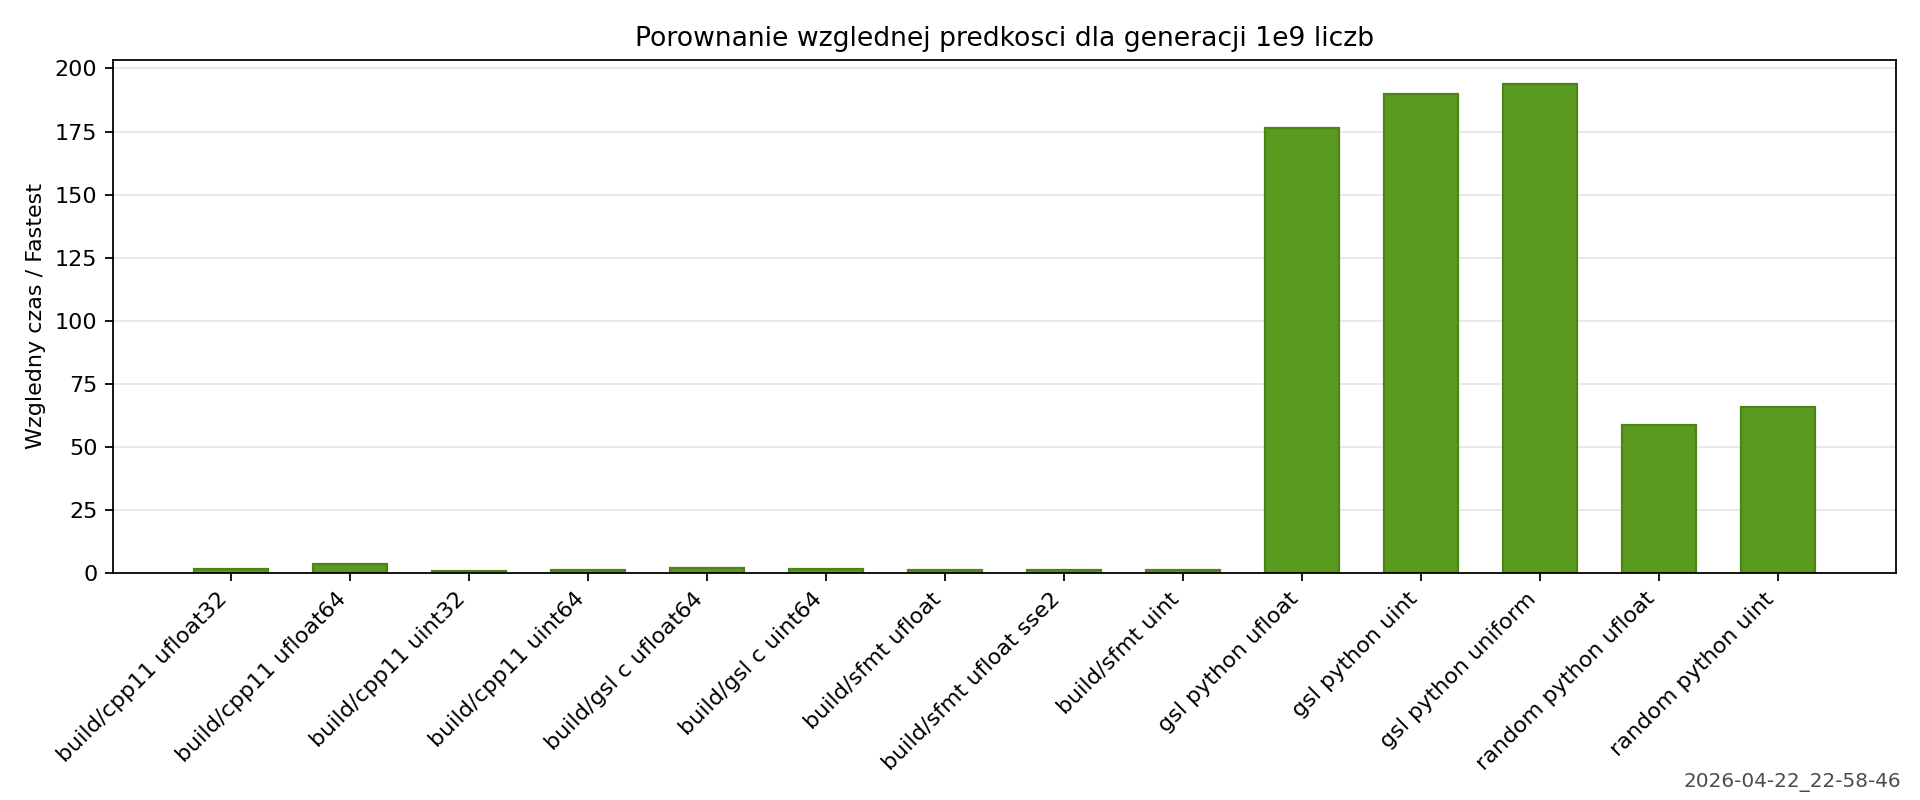
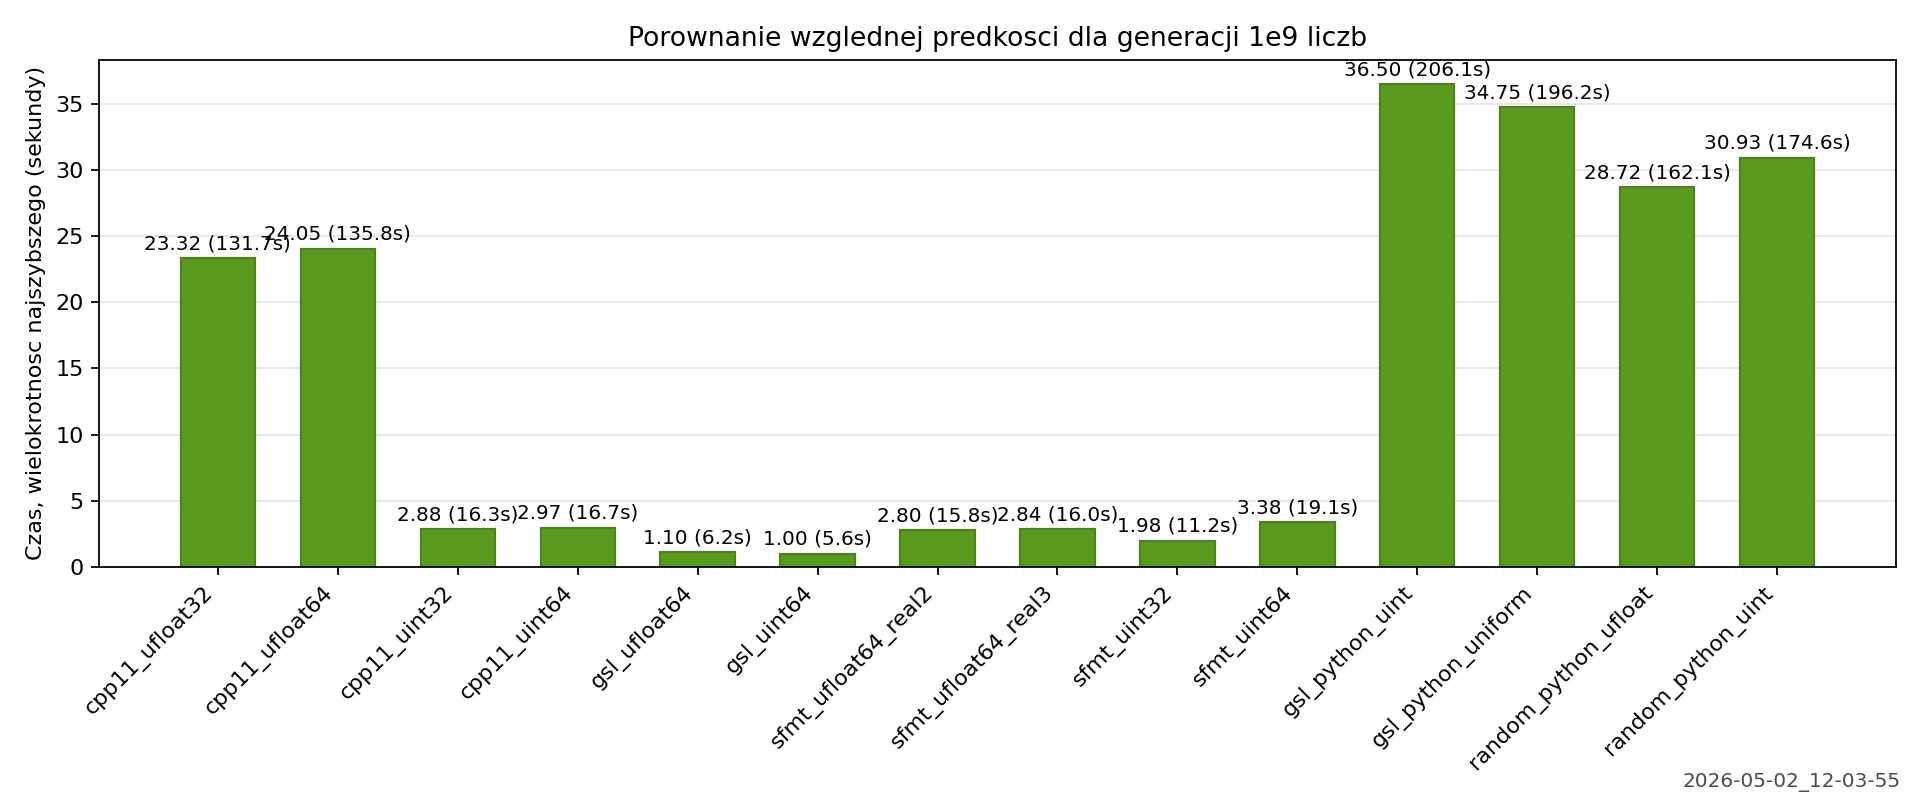
le real human insight and results

diff --git a/plot_results.py b/plot_results.py
@@ -26,30 +26,6 @@ def parse_args() -> argparse.Namespace:
         default="benchmark_chart.png",
         help="Output image path (default: benchmark_chart.png)",
     )
-    parser.add_argument(
-        "--title",
-        default="Porownanie wzglednej predkosci dla generacji 1e9 liczb",
-        help="Chart title",
-    )
-    parser.add_argument(
-        "--ylabel",
-        default="Wzgledny czas / najszybszy",
-        help="Y axis label",
-    )
-    parser.add_argument(
-        "--mode",
-        choices=["relative", "seconds"],
-        default="relative",
-        help=(
-            "Chart value mode: 'relative' plots elapsed_seconds normalized "
-            "to the fastest run (fastest=1), 'seconds' plots raw elapsed_seconds."
-        ),
-    )
-    parser.add_argument(
-        "--figsize",
-        default="12,5",
-        help="Figure size in inches as width,height (default: 12,5)",
-    )
 
     return parser.parse_args()
 
@@ -74,10 +50,6 @@ def read_results(csv_path: Path) -> tuple[str | None, list[dict[str, str]]]:
     return timestamp, rows
 
 
-def normalize_labels(labels: list[str]) -> list[str]:
-    return [label.replace("_", " ").replace(".py", "") for label in labels]
-
-
 def main() -> None:
     args = parse_args()
     csv_path = Path(args.csv_path)
@@ -90,26 +62,33 @@ def main() -> None:
     if not rows:
         raise ValueError("No benchmark rows found in CSV file.")
 
-    labels = normalize_labels([row["program"] for row in rows])
+    labels = [row["program"] for row in rows]
     elapsed = [float(row["elapsed_seconds"]) for row in rows]
 
-    if args.mode == "relative":
-        fastest = min(elapsed)
-        values = [value / fastest for value in elapsed]
-    else:
-        values = elapsed
+    fastest = min(elapsed)
+    values = [value / fastest for value in elapsed]
 
-    width_str, height_str = args.figsize.split(",", maxsplit=1)
-    fig_width = float(width_str.strip())
-    fig_height = float(height_str.strip())
-
-    plt.figure(figsize=(fig_width, fig_height))
-    plt.bar(labels, values, color="#5a9b1f", edgecolor="#4c841a", width=0.62)
-    plt.title(args.title)
-    plt.ylabel(args.ylabel)
+    plt.figure(figsize=(12, 5))
+    bars = plt.bar(labels, values, color="#5a9b1f", edgecolor="#4c841a", width=0.62)
+    plt.title("Porownanie wzglednej predkosci dla generacji 1e9 liczb")
+    plt.ylabel("Czas, wielokrotnosc najszybszego (sekundy)")
     plt.grid(axis="y", linestyle="-", linewidth=0.7, alpha=0.35)
     plt.gca().set_axisbelow(True)
     plt.xticks(rotation=45, ha="right")
+
+    # Add elapsed-seconds labels above each bar (show actual seconds measured)
+    max_val = max(values) if values else 0.0
+    offset = max_val * 0.01 if max_val > 0 else 0.01
+    for rect, secs, val in zip(bars, elapsed, values):
+        height = rect.get_height()
+        plt.text(
+            rect.get_x() + rect.get_width() / 2,
+            height + offset,
+            f"{val:.2f} ({float(secs):.1f}s)",
+            ha="center",
+            va="bottom",
+            fontsize=9,
+        )
 
     if timestamp:
         plt.figtext(0.99, 0.01, timestamp, ha="right", va="bottom", fontsize=9, alpha=0.7)

diff --git a/src/gsl_python_uniform.py b/src/gsl_python_uniform.py
@@ -1,33 +1,18 @@
 #!/usr/bin/env python3
 import sys
 import os
-from ctypes import CDLL, c_void_p, c_double, c_ulong
-from ctypes.util import find_library
+from pygsl import rng
 
 if len(sys.argv) > 1:
     N = int(sys.argv[1])
 else:
     N = int(os.environ.get('BENCH_N', '1000000000'))
 
-libname = find_library('gsl')
-if not libname:
-    sys.stderr.write('ERROR: libgsl not found — this benchmark requires libgsl.\\n')
-    sys.stderr.write('Install GSL and ensure it is discoverable by the system loader.\\n')
-    sys.exit(2)
-
-lib = CDLL(libname)
-rng_type = c_void_p.in_dll(lib, 'gsl_rng_mt19937')
-lib.gsl_rng_alloc.argtypes = [c_void_p]
-lib.gsl_rng_alloc.restype = c_void_p
-lib.gsl_rng_set.argtypes = [c_void_p, c_ulong]
-lib.gsl_rng_uniform.argtypes = [c_void_p]
-lib.gsl_rng_uniform.restype = c_double
-
-r = lib.gsl_rng_alloc(rng_type)
-lib.gsl_rng_set(r, 1234)
+r = rng.mt19937()
+r.set(1234)
 report_interval = N//10 if N>=10 else 1
 for i in range(N):
-    x = lib.gsl_rng_uniform(r)
+    x = r.uniform()
     if i % report_interval == 0:
         sys.stderr.write(f"gsl_python_uniform: Progress: {i}/{N}\n")
         sys.stderr.flush()

diff --git a/src/gsl_python_uint.py b/src/gsl_python_uint.py
@@ -1,33 +1,18 @@
 #!/usr/bin/env python3
 import sys
 import os
-from ctypes import CDLL, c_void_p, c_ulong, c_double
-from ctypes.util import find_library
+from pygsl import rng
 
 if len(sys.argv) > 1:
     N = int(sys.argv[1])
 else:
     N = int(os.environ.get('BENCH_N', '1000000000'))
 
-libname = find_library('gsl')
-if not libname:
-    sys.stderr.write('ERROR: libgsl not found — this benchmark requires libgsl.\\n')
-    sys.stderr.write('Install GSL and ensure it is discoverable by the system loader.\\n')
-    sys.exit(2)
-
-lib = CDLL(libname)
-rng_type = c_void_p.in_dll(lib, 'gsl_rng_mt19937')
-lib.gsl_rng_alloc.argtypes = [c_void_p]
-lib.gsl_rng_alloc.restype = c_void_p
-lib.gsl_rng_set.argtypes = [c_void_p, c_ulong]
-lib.gsl_rng_get.argtypes = [c_void_p]
-lib.gsl_rng_get.restype = c_ulong
-
-r = lib.gsl_rng_alloc(rng_type)
-lib.gsl_rng_set(r, 1234)
+r = rng.mt19937()
+r.set(1234)
 report_interval = N//10 if N>=10 else 1
 for i in range(N):
-    x = lib.gsl_rng_get(r)
+    x = r.get()
     if i % report_interval == 0:
         sys.stderr.write(f"gsl_python_uint: Progress: {i}/{N}\n")
         sys.stderr.flush()

diff --git a/src/sfmt_uint32.cpp b/src/sfmt_uint32.cpp
@@ -1,0 +1,30 @@
+#include <cstdio>
+#include <cstdint>
+#include "SFMT.h"
+#include <cstdlib>
+#include <cstring>
+
+// Use compile-time BENCH_N for iterations
+#ifndef BENCH_N
+#define BENCH_N 1000000000ULL
+#endif
+
+static const unsigned long long N = (unsigned long long)BENCH_N;
+
+int main() {
+    sfmt_t sfmt;
+    sfmt_init_gen_rand(&sfmt, 1234);
+    const unsigned long long report_interval = (N >= 10) ? (N / 10) : 1;
+    for (unsigned long long i = 0; i < N; ++i) {
+        volatile uint32_t r = sfmt_genrand_uint32(&sfmt);
+        (void)r;
+        if ((i % report_interval) == 0) {
+            std::fprintf(stderr, "sfmt_uint32: Progress: %llu/%llu\n", (unsigned long long)i, (unsigned long long)N);
+            std::fflush(stderr);
+        }
+    }
+    std::fprintf(stderr, "sfmt_uint32: Progress: %llu/%llu (100%%)\n", (unsigned long long)N, (unsigned long long)N);
+    return 0;
+}
+
+

diff --git a/src/sfmt_uint64.cpp b/src/sfmt_uint64.cpp
@@ -1,0 +1,30 @@
+#include <cstdio>
+#include <cstdint>
+#include "SFMT.h"
+#include <cstdlib>
+#include <cstring>
+
+// Use compile-time BENCH_N for iterations
+#ifndef BENCH_N
+#define BENCH_N 1000000000ULL
+#endif
+
+static const unsigned long long N = (unsigned long long)BENCH_N;
+
+int main() {
+    sfmt_t sfmt;
+    sfmt_init_gen_rand(&sfmt, 1234);
+    const unsigned long long report_interval = (N >= 10) ? (N / 10) : 1;
+    for (unsigned long long i = 0; i < N; ++i) {
+        volatile uint64_t r = sfmt_genrand_uint64(&sfmt);
+        (void)r;
+        if ((i % report_interval) == 0) {
+            std::fprintf(stderr, "sfmt_uint64: Progress: %llu/%llu\n", (unsigned long long)i, (unsigned long long)N);
+            std::fflush(stderr);
+        }
+    }
+    std::fprintf(stderr, "sfmt_uint64: Progress: %llu/%llu (100%%)\n", (unsigned long long)N, (unsigned long long)N);
+    return 0;
+}
+
+

diff --git a/src/gsl_uint64.cpp b/src/gsl_uint64.cpp
@@ -14,10 +14,14 @@ static const unsigned long long N = (unsigned long long)BENCH_N;
 int main() {
     gsl_rng *r = gsl_rng_alloc(gsl_rng_mt19937);
     gsl_rng_set(r, 1234);
-
+    const unsigned long long report_interval = (N >= 10) ? (N / 10) : 1;
     for (unsigned long long i = 0; i < N; ++i) {
         volatile uint32_t x = gsl_rng_get(r);
         (void)x;
+        if ((i % report_interval) == 0) {
+            std::fprintf(stderr, "gsl_c_uint: Progress: %llu/%llu\n", (unsigned long long)i, (unsigned long long)N);
+            std::fflush(stderr);
+        }
     }
     gsl_rng_free(r);
     std::fprintf(stderr, "gsl_c_uint: Progress: %llu/%llu (100%%)\n", (unsigned long long)N, (unsigned long long)N);

diff --git a/src/sfmt_ufloat64_real3.cpp b/src/sfmt_ufloat64_real3.cpp
@@ -19,10 +19,10 @@ int main() {
         volatile double x = sfmt_genrand_real3(&sfmt);
         (void)x;
         if ((i % report_interval) == 0) {
-            std::fprintf(stderr, "sfmt_ufloat_ss2: Progress: %llu/%llu\n", (unsigned long long)i, (unsigned long long)N);
+            std::fprintf(stderr, "sfmt_ufloat_sse2: Progress: %llu/%llu\n", (unsigned long long)i, (unsigned long long)N);
             std::fflush(stderr);
         }
     }
-    std::fprintf(stderr, "sfmt_ufloat_ss2: Progress: %llu/%llu (100%%)\n", (unsigned long long)N, (unsigned long long)N);
+    std::fprintf(stderr, "sfmt_ufloat_sse2: Progress: %llu/%llu (100%%)\n", (unsigned long long)N, (unsigned long long)N);
     return 0;
 }

diff --git a/src/random_python_uint.py b/src/random_python_uint.py
@@ -3,8 +3,6 @@ import random
 import sys
 import os
 
-# Generate N 32-bit unsigned integers using Python's PRNG
-# Default to 1_000_000_000 unless overridden by argv[1] or BENCH_N
 if len(sys.argv) > 1:
     N = int(sys.argv[1])
 else:
@@ -15,8 +13,7 @@ report_interval = N // 10 if N >= 10 else 1
 for i in range(N):
     x = random.getrandbits(32)
     if (i % report_interval) == 0:
-        pct = (i * 100) / N
-        sys.stderr.write(f"random_python_uint: Progress: {i}/{N} ({pct:.0f}%)\n")
+        sys.stderr.write(f"random_python_uint: Progress: {i}/{N} ({(i*100)//N}%)\n")
         sys.stderr.flush()
 sys.stderr.write(f"random_python_uint: Progress: {N}/{N} (100%)\n")
 sys.stderr.flush()

diff --git a/src/gsl_ufloat64.cpp b/src/gsl_ufloat64.cpp
@@ -14,7 +14,6 @@ static const unsigned long long N = (unsigned long long)BENCH_N;
 int main() {
     gsl_rng *r = gsl_rng_alloc(gsl_rng_mt19937);
     gsl_rng_set(r, 1234);
-
     const unsigned long long report_interval = (N >= 10) ? (N / 10) : 1;
     for (unsigned long long i = 0; i < N; ++i) {
         volatile double x = gsl_rng_uniform(r);

diff --git a/README.md b/README.md
@@ -1,6 +1,9 @@
 # mt-benchmark
 Mersenne Twister c++(std,GSL,SFMT) and Python benchmark
 
+# Results
+![le results](benchmark_chart.png)
+
 # Usage
 1. Clone the repo with SFMT submodule:
 ```
@@ -8,14 +11,14 @@ git clone --recurse-submodules https://github.com/frytkisasmaczne/mt-benchmark
 ```
 2. Install dependencies:
 ```
-pip3 install matplotlib
+pip3 install matplotlib pygsl
 ```
 Install libGSL with dev headers from your system package manager, e.g.:
 ```
 apt install libgsl-dev
 pacman -S gsl
 ```
-3. Build c++ and run the benchmarks:
+3. Build c++ and run all the benchmarks:
 ```
 make clean run
 ```
